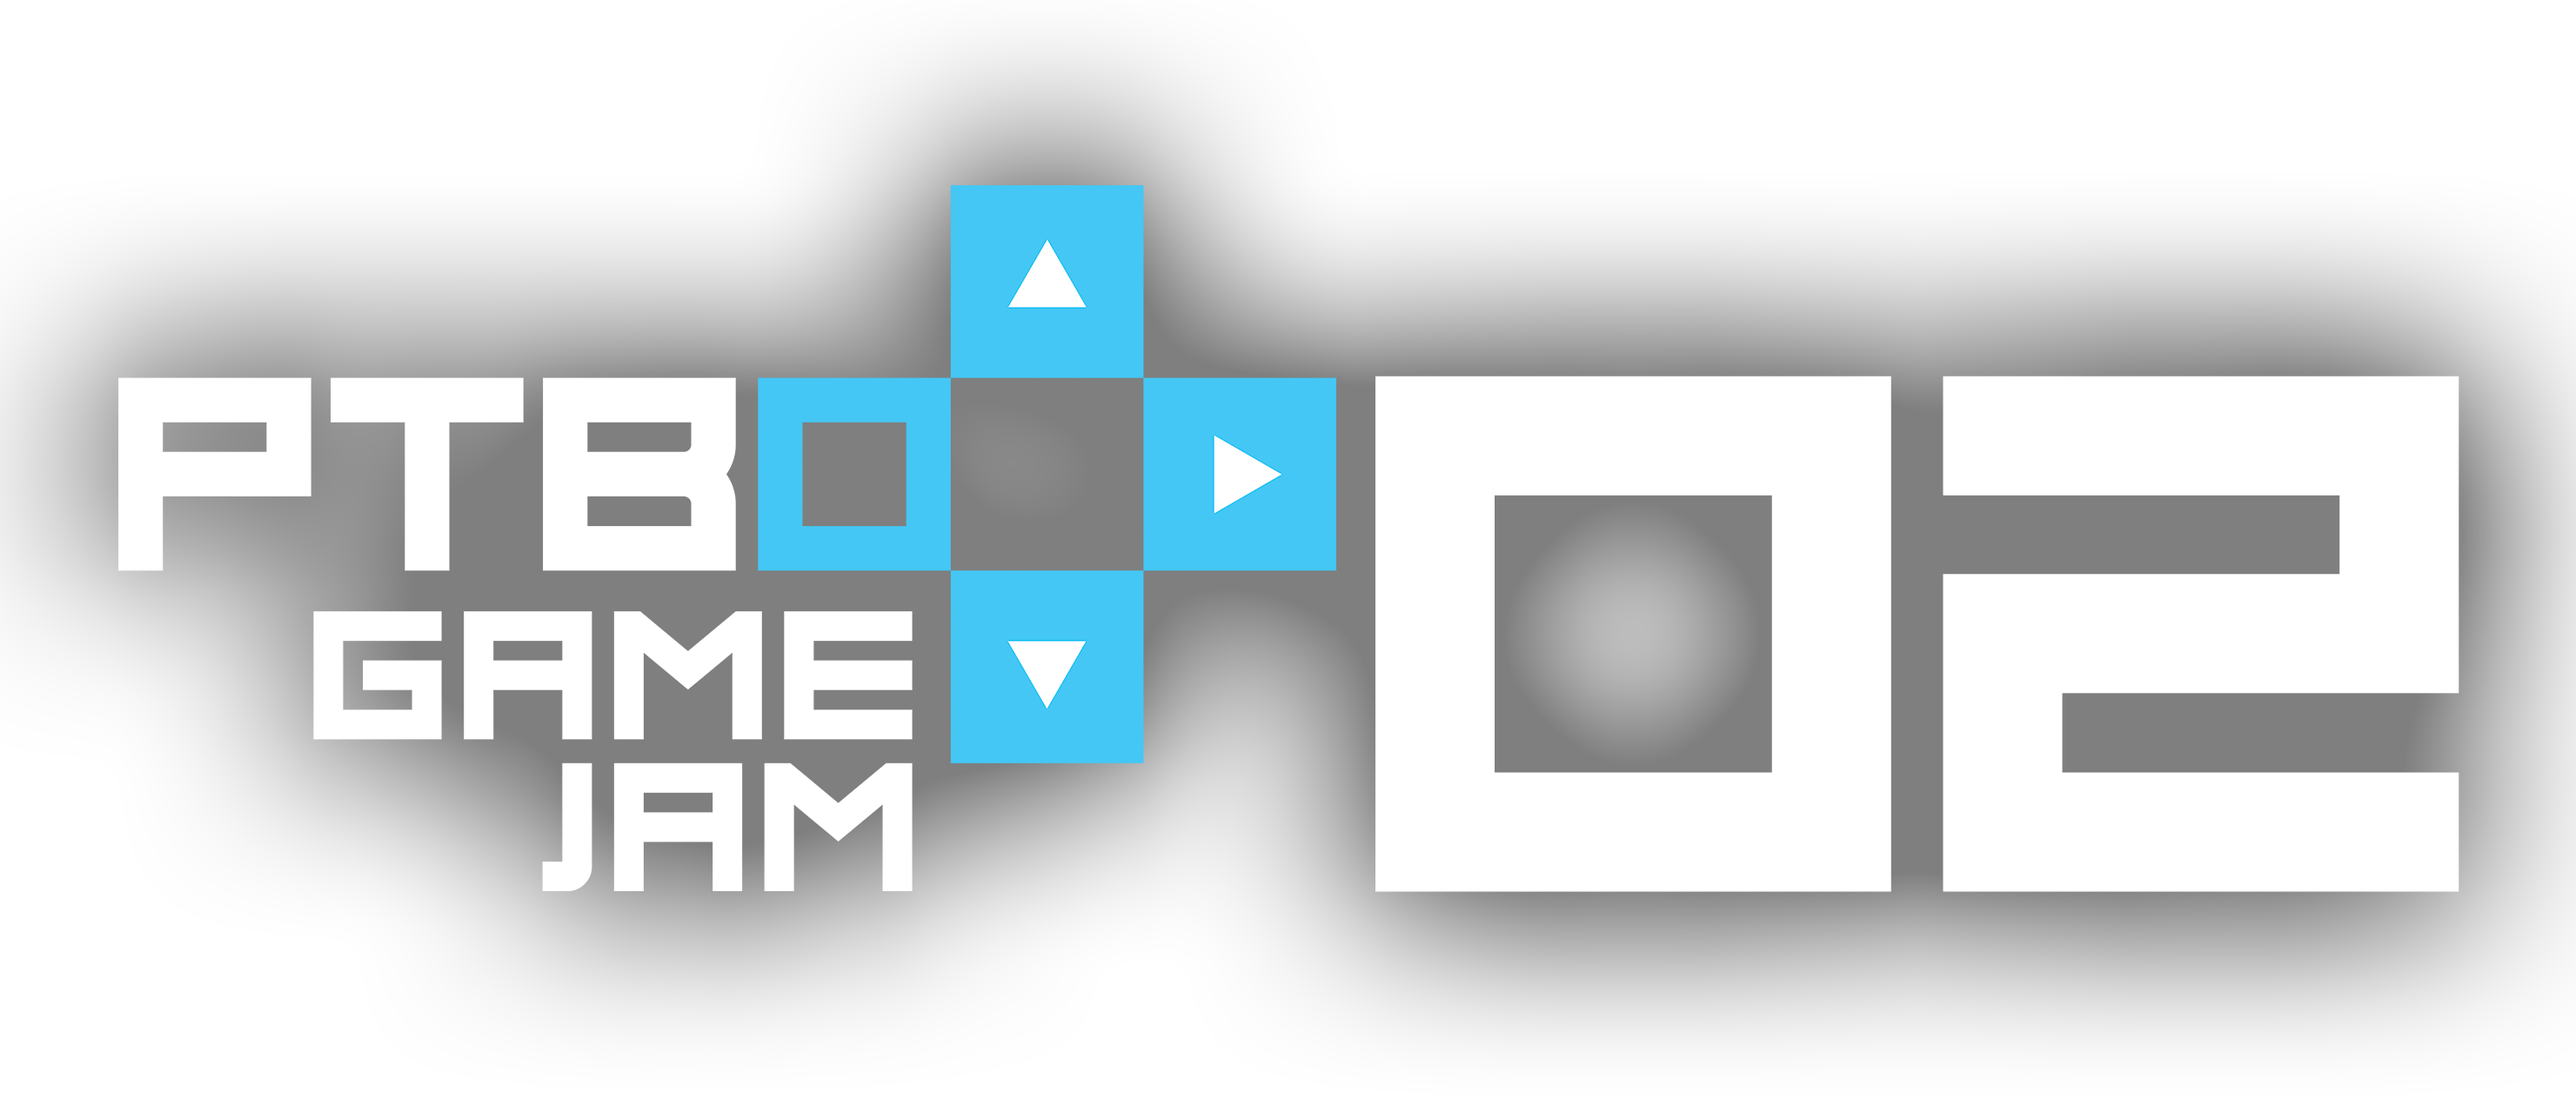
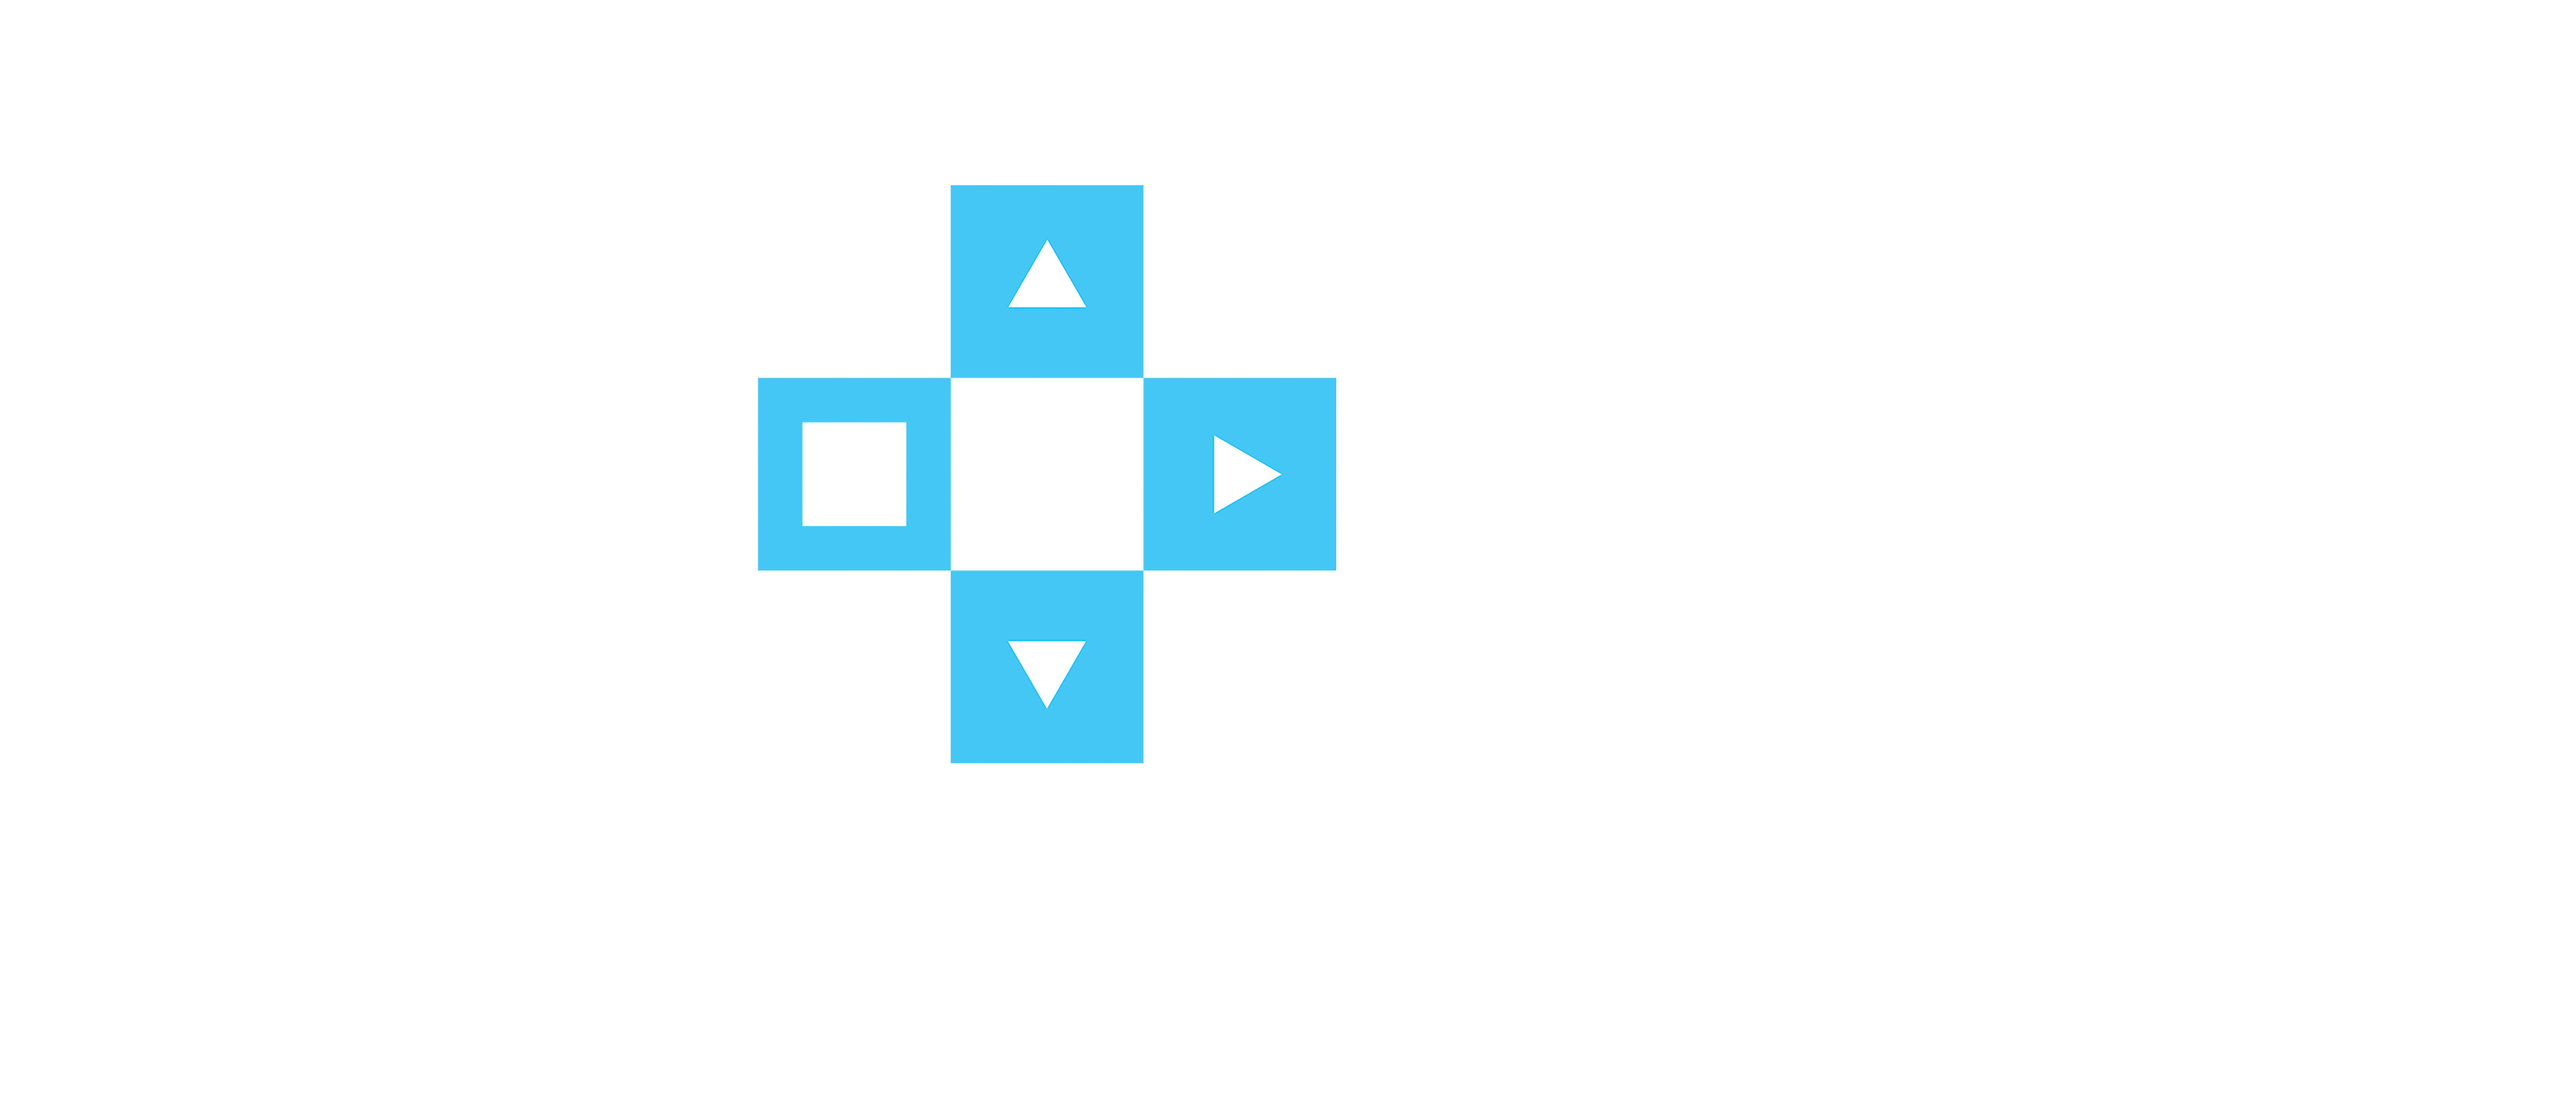
Event specific artwork

diff --git a/_includes/block-media-events.html b/_includes/block-media-events.html
@@ -1,0 +1,41 @@
+<div id='gallery' class="jx-container container-no-margin jx-padding background-003">
+
+            <!-- Background Image -->
+
+            <!-- Background Icon -->
+            <div class="container ">
+                <div class="jx-section-title-1 jx-dark">
+
+                    <div class="jx-pre-title jx-short-border">
+                    <div class="jx-title-icon-light"><i class="icon-gamejam"></i></div>
+                    </div>
+                    <div class="jx-title jx-title-light jx-uppercase">Event Branding</div>
+                    <div class="jx-subtitle"><p>Each of our events has a specific branding which uniquely identifies it in the series of PTBO Game Jam events. Often we create signature pieces of artwork for promotional purposes which are made available to media..</p></div>
+                    <!-- Section Title -->
+
+                </div>
+                <div class="jx-grid-item">
+                    <div class="jx-image jx-image-wrapper"><img width="400" src="{{ "/content/img/event/01/PTBOGameJam01-Light.jpg" | prepend: site.baseurl }}" alt="PTBO Game Jam 01 Logo (Transparent)" hdpi="true"/>
+                      <a href="{{ "/files/events/01/PTBOGameJam01-Light.png" | prepend: site.baseurl }}" title="TBO Game Jam 01 Logo (Transparent)">
+                        <div class="jx-image-overlayer"></div>
+                        <div class="jx-image-hover"><i class="icon-link"></i></div>
+                      </a>
+                    </div>
+                    <div class="logo-spacer"></div>
+                    <div class="jx-image jx-image-wrapper"><img width="400" src="{{ "/content/img/event/01/PTBOGameJam01-Dark.jpg" | prepend: site.baseurl }}" alt="PTBO Game Jam 01 Logo (Transparent)" hdpi="true"/>
+                      <a href="{{ "/files/events/01/PTBOGameJam01-Dark.png" | prepend: site.baseurl }}" title="TBO Game Jam 01 Logo (Transparent)">
+                        <div class="jx-image-overlayer"></div>
+                        <div class="jx-image-hover"><i class="icon-link"></i></div>
+                      </a>
+                    </div>
+                </div>
+                <div class="jx-grid-item">
+                    <div class="jx-image jx-image-wrapper"><img width="400" src="{{ "/content/img/event/01/PTBOGameJam01-Banner.jpg" | prepend: site.baseurl }}" alt="01 Banner" hdpi="true"/>
+                      <a href="{{ "/files/events/01/PTBOGameJam01-Banner.png" | prepend: site.baseurl }}" title="01 Banner">
+                        <div class="jx-image-overlayer"></div>
+                        <div class="jx-image-hover"><i class="icon-link"></i></div>
+                      </a>
+                    </div>
+                </div>
+            </div>
+        </div>

diff --git a/_includes/block-media-assets.html b/_includes/block-media-assets.html
@@ -18,7 +18,7 @@
                 </div>
                 {% for image in site.data.01-gallery %}
                 <div class="jx-grid-item">
-                    <div class="jx-image jx-image-wrapper"><img width="400" src="{{ image.img | prepend: site.baseurl }}" alt="{{ image.alt }}" />
+                    <div class="jx-image jx-image-wrapper"><img width="400" src="{{ image.img | prepend: site.baseurl }}" alt="{{ image.alt }}" hdpi="true"/>
                       <a href="{{ image.url | prepend: site.baseurl }}" title="{{ image.title }}">
                         <div class="jx-image-overlayer"></div>
                         <div class="jx-image-hover"><i class="icon-link"></i></div>

diff --git a/media.html b/media.html
@@ -22,7 +22,6 @@ permalink: /media/
         </div>
     </div>
   </div>
-
   <div class="jx-container jx-padding jx-grey-bg">
         	<div class="container">
                 <div class="jx-section-title-1">
@@ -58,6 +57,8 @@ permalink: /media/
                 </div>
             </div>
         </div>
+{% include block-media-events.html %}        
 {% include block-media-assets.html %}
+
 {% include block-ticker.html %}
 {% include block-summary.html %}

diff --git a/_sass/_responsive-max1199.scss b/_sass/_responsive-max1199.scss
@@ -45,4 +45,9 @@
   // .jx-main-slider .flexslider:hover .flex-direction-nav .flex-prev {
   //   left: -41px;
   // }
+
+  .jx-grid-item .logo-spacer
+  {
+    height: 24px;
+  }
 }

diff --git a/_sass/_elements.scss b/_sass/_elements.scss
@@ -2856,3 +2856,8 @@ div#sponsors-list {
     padding: 17px 20px;
     color: #ffffff;
 }
+
+.jx-grid-item .logo-spacer
+{
+  height: 30px;
+}

diff --git a/_sass/_responsive-max768.scss b/_sass/_responsive-max768.scss
@@ -67,4 +67,8 @@
 	.responsive-full {
 		width: 100%;
 	}
+	.jx-grid-item .logo-spacer
+	{
+		height: 28px;
+	}
 }

diff --git a/_sass/_responsive-max479.scss b/_sass/_responsive-max479.scss
@@ -913,4 +913,9 @@
     margin-right: 0px;
   }
 
+  .jx-grid-item .logo-spacer
+  {
+    height: 20px;
+  }
+
 }
